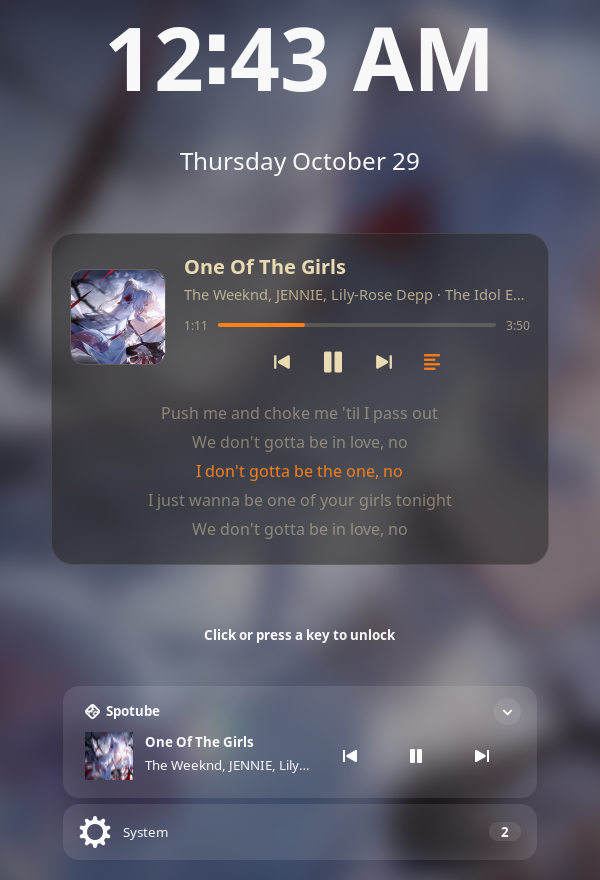
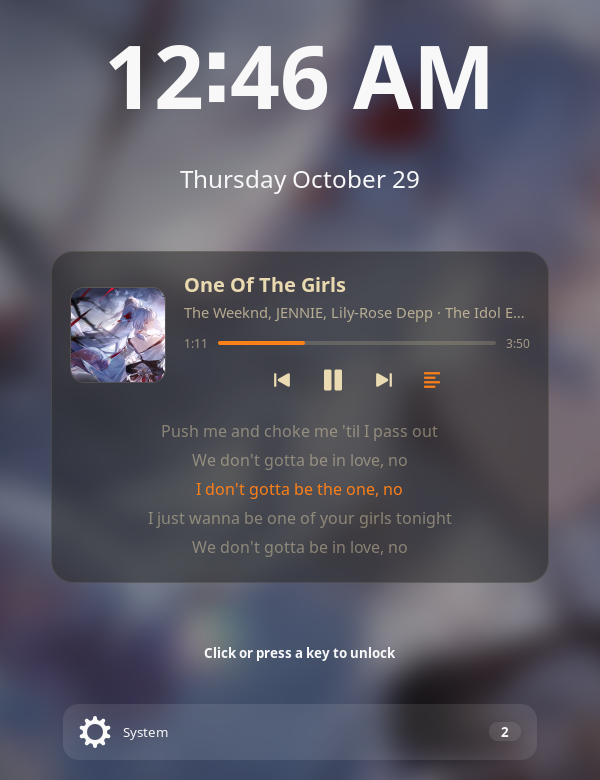
Hide GNOME's media card from the lock screen notifications
The now-playing card replaces it, so showing both repeated the song. Its
cards are hidden as players come and go, other notifications stay, and
the hide-gnome-media setting brings it back.

diff --git a/extension.js b/extension.js
@@ -20,7 +20,10 @@ export default class LockplayerExtension extends Extension {
 
         Main.screenShield._lockDialogGroup.connectObject('child-added', () => this._queueAttach(), this);
         Main.screenShield.connectObject('locked-changed', () => this._queueAttach(), this);
-        this._settings.connectObject('changed::notifications-under-clock', () => this._syncLayout(), this);
+        this._settings.connectObject(
+            'changed::notifications-under-clock', () => this._syncLayout(),
+            'changed::hide-gnome-media', () => this._syncGnomeMedia(),
+            this);
         this._queueAttach();
     }
 
@@ -32,6 +35,7 @@ export default class LockplayerExtension extends Extension {
         Main.screenShield.disconnectObject(this);
         this._settings.disconnectObject(this);
         this._restoreLayout();
+        this._restoreGnomeMedia();
         this._card?.destroy();
         this._card = null;
         this._http.destroy();
@@ -67,6 +71,43 @@ export default class LockplayerExtension extends Extension {
         // Under the time and date, above the "click to unlock" hint.
         clock.insert_child_at_index(this._card, 2);
         this._syncLayout();
+        this._syncGnomeMedia();
+    }
+
+    // GNOME's notifications box keeps one media card per MPRIS player in
+    // _players; hide them (re-checking whenever a player comes or goes, after
+    // GNOME's own handler has added its card) since our card replaces them.
+    _syncGnomeMedia() {
+        const box = Main.screenShield._dialog?._notificationsBox;
+        if (!box?._players)
+            return;
+
+        if (this._mediaBox !== box) {
+            this._restoreGnomeMedia();
+            this._mediaBox = box;
+            box._mediaSource?.connectObject(
+                'player-added', () => this._syncGnomeMedia(),
+                'player-removed', () => this._syncGnomeMedia(),
+                this);
+            box.connectObject('destroy', () => (this._mediaBox = null), this);
+        }
+
+        const hide = this._settings.get_boolean('hide-gnome-media');
+        for (const message of box._players.values())
+            message.visible = !hide;
+        box._updateVisibility?.();
+    }
+
+    _restoreGnomeMedia() {
+        const box = this._mediaBox;
+        if (!box)
+            return;
+        this._mediaBox = null;
+        box._mediaSource?.disconnectObject(this);
+        box.disconnectObject(this);
+        for (const message of box._players?.values() ?? [])
+            message.visible = true;
+        box._updateVisibility?.();
     }
 
     // Swap GNOME's lock screen layout for one that stacks the notifications

diff --git a/prefs.js b/prefs.js
@@ -25,6 +25,8 @@ export default class LockplayerPreferences extends ExtensionPreferences {
         toggle(card, 'big-artwork', 'Large album art', 'Clicking the cover on the lock screen toggles this too');
         toggle(card, 'notifications-under-clock', 'Notifications under the clock',
             'Instead of at the bottom of the screen');
+        toggle(card, 'hide-gnome-media', "Hide GNOME's media card",
+            'The now-playing card replaces it on the lock screen');
 
         const opacity = new Adw.SpinRow({
             title: 'Background opacity',

diff --git a/README.md b/README.md
@@ -18,7 +18,8 @@ with the clock when you start typing your password.
   song is looked up once.
 - Click the cover for large album art. The lyrics button shows or hides lyrics.
 - Notifications move up under the clock and card instead of sitting at the
-  bottom of the screen (can be turned off).
+  bottom of the screen, and GNOME's own media card is hidden from them since
+  the now-playing card replaces it (both can be turned off).
 - Works with any MPRIS player (Spotube, Firefox, Spotify, …). It talks to
   players over D-Bus directly instead of through GNOME's media list, so
   extensions that hide GNOME's media notification don't affect it.
